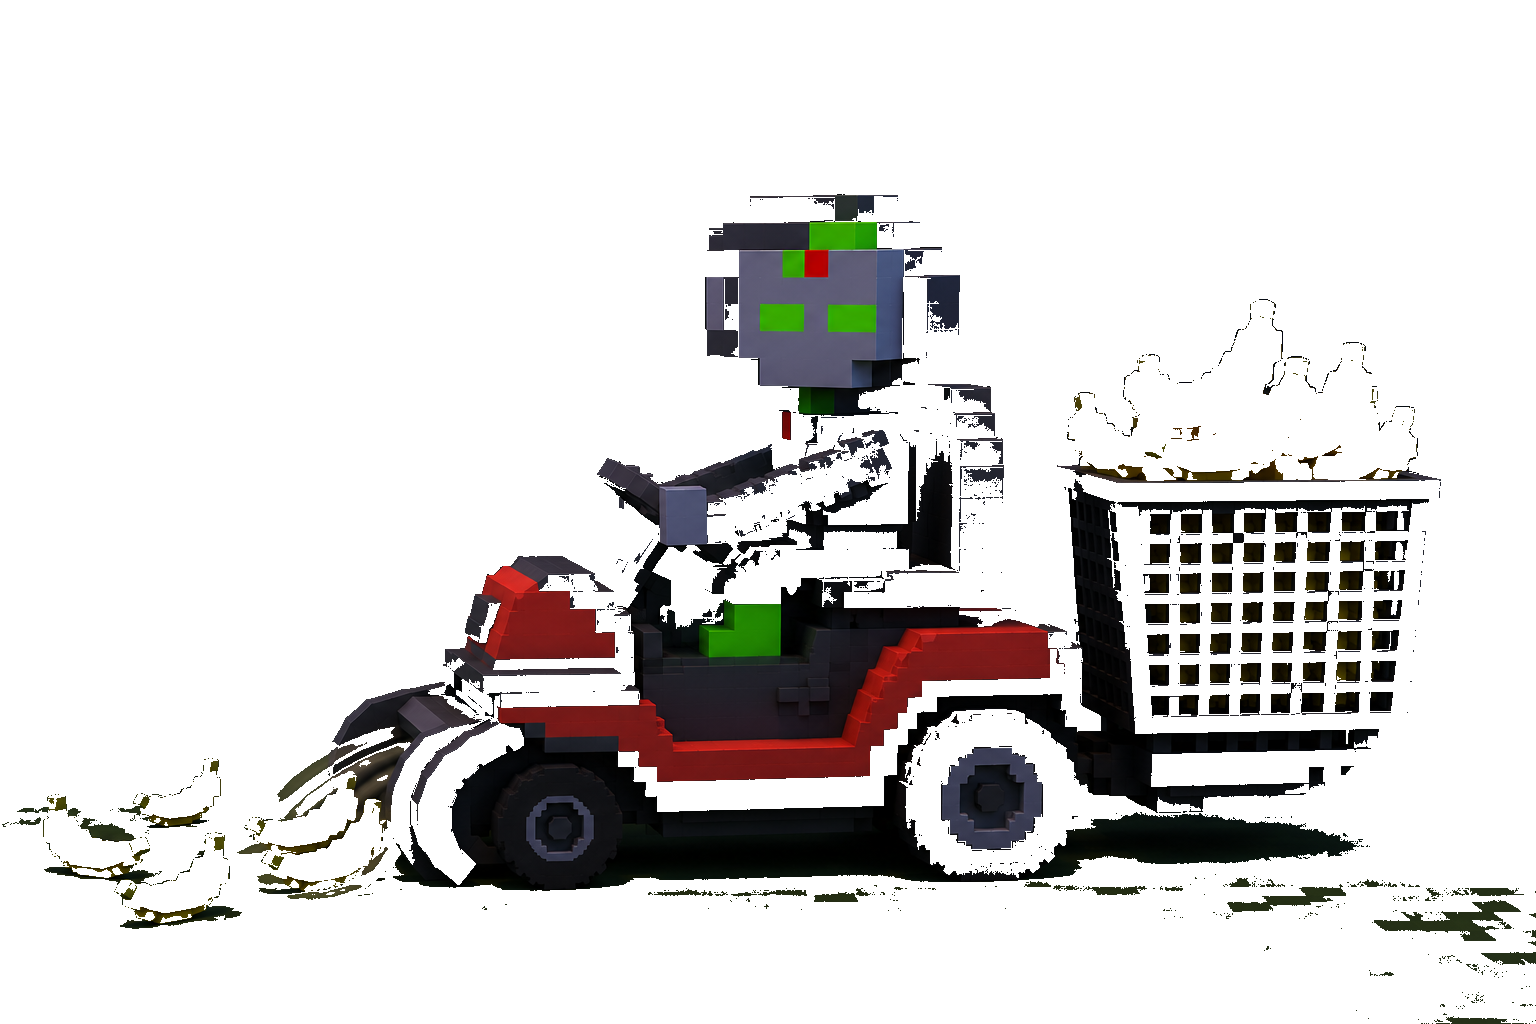
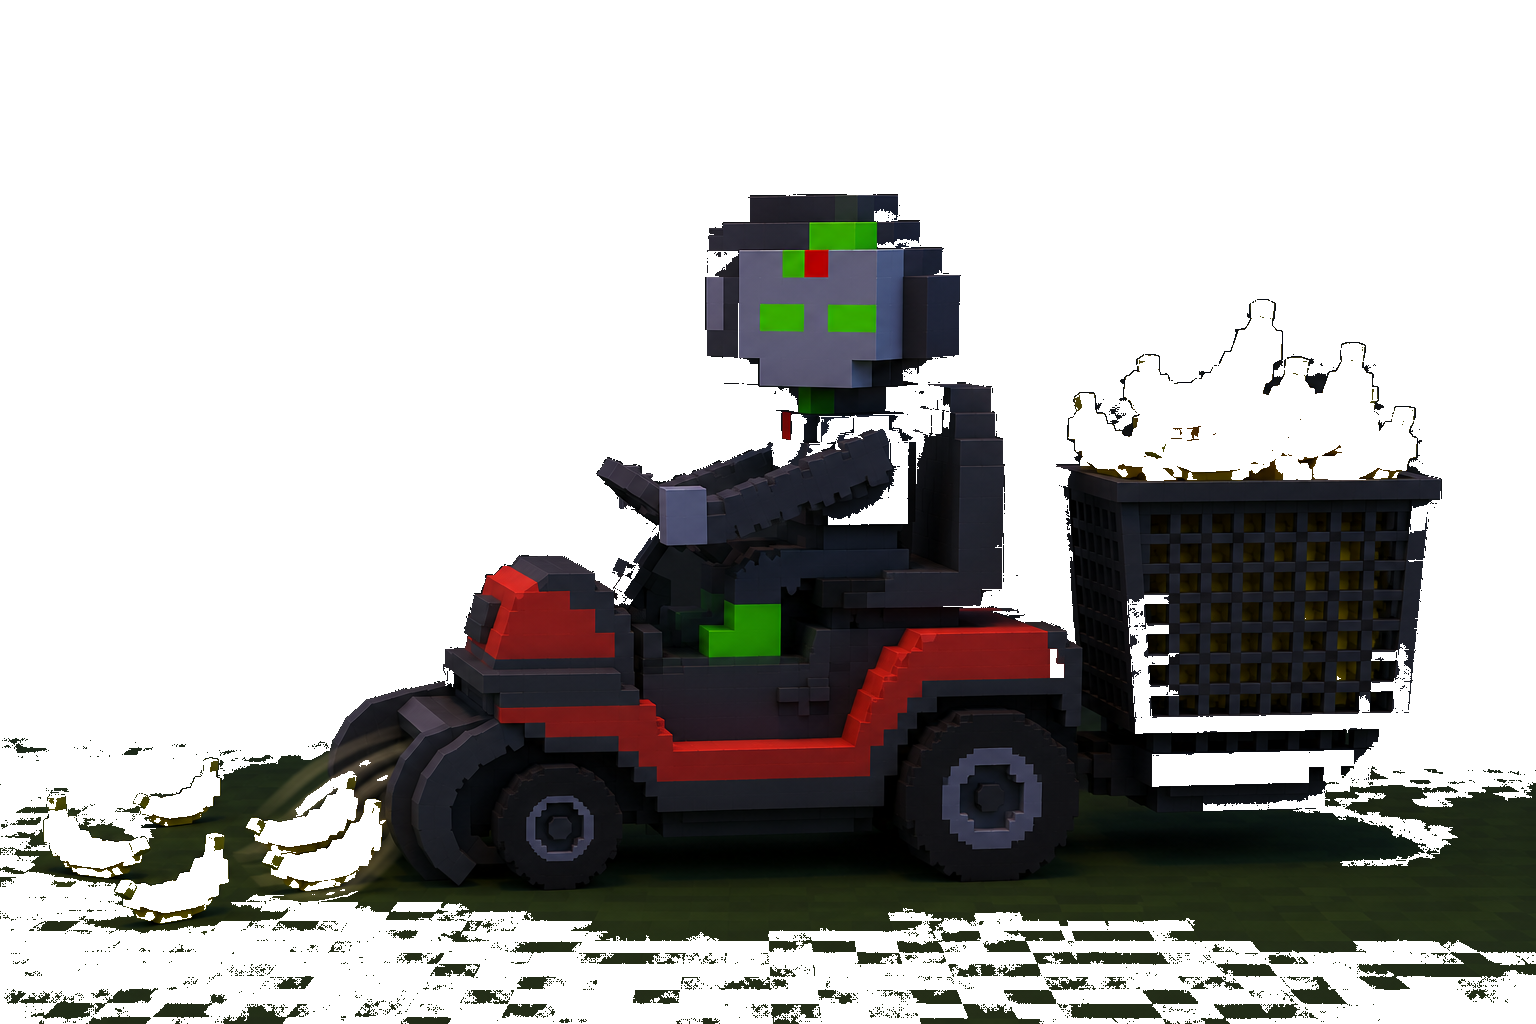
fix(v2.37 OTA): MonkeMower asset less eroded + tight crate fill + remove all latitude lines
Three things bundled:

1. Mower body was getting eaten by the flood-fill because the voxel
   monke's dark body color is close to the dark gradient backdrop.
   → Tightened flood-fill threshold from 35 → 18 and added more seed
     points (corners + edge midpoints + quarter-points) so the gradient
     is still cleanly swept but body shading is preserved. Result is a
     bit less aggressive on the ground area but the driver + frame are
     intact.

2. Dynamic crate fill bananas were spread too loose.
   → Redesigned CRATE_BANANA_SLOTS: 15 slots in a tight 4-3-3-2-mound
     stack, larger sizes at the bottom (foreground) tapering to smaller
     at the top. Mirrors the original asset's compact pile.

3. Latitude (horizontal) separator lines removed across the chat surface
   per design pass:
   - ChatHeader main chat bottom border
   - ChatScreen supportBanner top border (line above SKR / Floor bar)
   - ChatScreen historyLoading bottom border
   - ChatInput container top border
   - BotChannelScreen header bottom border
   - BotChannelScreen statusBar bottom border
   - BotChannelScreen historyLoading bottom border
   The MenuDrawer keeps its internal separators (those are inside a
   collapsed drawer panel, not a "latitude line across the app").

diff --git a/src/components/worlds/MonkeMower.tsx b/src/components/worlds/MonkeMower.tsx
@@ -75,21 +75,30 @@ const BOUNCE_FREQUENCY = 0.04;      // higher = more bounces per pixel of drive
 const INTAKE_IDLE_X = -100_000;
 
 // ── Crate fill positions ───────────────────────────────────────────────────
+// Compact pile, tightly packed like the original asset's static bananas.
 // Stable random-looking positions inside the crate area. Bananas appear at
-// these slots in order as `crateCount` grows.
+// these slots in order as `crateCount` grows. y is fraction-from-top of the
+// crate region; bottom rows fill first, then mound upward.
 const CRATE_BANANA_SLOTS = [
-  { x: 0.10, y: 0.85, rot: -12, size: 14 },
-  { x: 0.55, y: 0.80, rot: 18, size: 13 },
-  { x: 0.30, y: 0.75, rot: -6, size: 14 },
-  { x: 0.75, y: 0.70, rot: 22, size: 12 },
-  { x: 0.18, y: 0.62, rot: 8, size: 13 },
-  { x: 0.50, y: 0.55, rot: -20, size: 12 },
-  { x: 0.85, y: 0.55, rot: 4, size: 11 },
-  { x: 0.30, y: 0.42, rot: -14, size: 12 },
-  { x: 0.65, y: 0.40, rot: 16, size: 11 },
-  { x: 0.10, y: 0.30, rot: 10, size: 11 },
-  { x: 0.45, y: 0.22, rot: -8, size: 11 },
-  { x: 0.78, y: 0.20, rot: 14, size: 10 },
+  // Bottom row — tight overlap, larger size (foreground)
+  { x: 0.20, y: 0.92, rot: -14, size: 14 },
+  { x: 0.42, y: 0.94, rot:   8, size: 14 },
+  { x: 0.62, y: 0.92, rot: -22, size: 14 },
+  { x: 0.82, y: 0.94, rot:  18, size: 13 },
+  // Row 2 — slightly higher, packed
+  { x: 0.30, y: 0.80, rot:  20, size: 13 },
+  { x: 0.50, y: 0.81, rot: -10, size: 13 },
+  { x: 0.72, y: 0.80, rot:   6, size: 13 },
+  { x: 0.12, y: 0.78, rot: -18, size: 12 },
+  // Row 3
+  { x: 0.40, y: 0.68, rot:  14, size: 12 },
+  { x: 0.60, y: 0.69, rot: -12, size: 12 },
+  { x: 0.22, y: 0.66, rot:  22, size: 11 },
+  { x: 0.80, y: 0.67, rot:  -8, size: 11 },
+  // Top mound — smaller, slightly chaotic
+  { x: 0.35, y: 0.55, rot:  -6, size: 11 },
+  { x: 0.55, y: 0.56, rot:  16, size: 11 },
+  { x: 0.50, y: 0.45, rot: -20, size: 10 },
 ];
 const MAX_CRATE_VISIBLE = CRATE_BANANA_SLOTS.length;
 

diff --git a/src/screens/BotChannelScreen.tsx b/src/screens/BotChannelScreen.tsx
@@ -480,9 +480,8 @@ const styles = StyleSheet.create({
     alignItems: "center",
     paddingHorizontal: 8,
     height: 100,
-    borderBottomWidth: 1,
-    borderBottomColor: THEME.border,
     backgroundColor: "transparent",
+    // No borderBottom — separator removed per design pass 2026-05-06.
   },
   headerCenter: {
     flex: 1,
@@ -516,9 +515,8 @@ const styles = StyleSheet.create({
     justifyContent: "center",
     gap: 6,
     paddingVertical: 6,
-    borderBottomWidth: 1,
-    borderBottomColor: THEME.border,
     backgroundColor: THEME.bg,
+    // No borderBottom — separator removed per design pass 2026-05-06.
   },
   liveDot: {
     width: 6,
@@ -593,8 +591,7 @@ const styles = StyleSheet.create({
     justifyContent: "center",
     gap: 8,
     padding: 12,
-    borderBottomWidth: 1,
-    borderBottomColor: THEME.border,
+    // No borderBottom — separator removed per design pass 2026-05-06.
   },
   historyLoadingText: {
     fontFamily: FONTS.body,

diff --git a/src/screens/ChatScreen.tsx b/src/screens/ChatScreen.tsx
@@ -1435,8 +1435,7 @@ const styles = StyleSheet.create({
     justifyContent: "center",
     gap: 8,
     padding: 12,
-    borderBottomWidth: 1,
-    borderBottomColor: THEME.border,
+    // No borderBottom — separator removed per design pass 2026-05-06.
   },
   historyLoadingText: {
     fontFamily: FONTS.body,
@@ -1571,8 +1570,7 @@ const styles = StyleSheet.create({
     justifyContent: 'space-between',
     paddingVertical: 9,
     paddingHorizontal: 12,
-    borderTopWidth: 1,
-    borderTopColor: THEME.border,
+    // No borderTop — separator removed per design pass 2026-05-06.
   },
   supportBannerText: {
     fontFamily: FONTS.mono,

diff --git a/src/components/ChatHeader.tsx b/src/components/ChatHeader.tsx
@@ -115,8 +115,8 @@ const styles = StyleSheet.create({
     alignItems: "center",
     paddingHorizontal: 8,
     height: 100,
-    borderBottomWidth: 1,
-    borderBottomColor: THEME.border,
+    // No borderBottom — design pass 2026-05-06 removed all horizontal
+    // separator lines across the chat surface.
     backgroundColor: HEADER_BG,
   },
   tickerWrap: {

diff --git a/src/components/ChatInput.tsx b/src/components/ChatInput.tsx
@@ -506,8 +506,7 @@ export const ChatInput = memo(function ChatInput({
 const styles = StyleSheet.create({
   container: {
     backgroundColor: THEME.surface,
-    borderTopWidth: 1,
-    borderTopColor: THEME.border,
+    // No borderTop — separator removed per design pass 2026-05-06.
     paddingBottom: 8,
   },
   replyBanner: {
